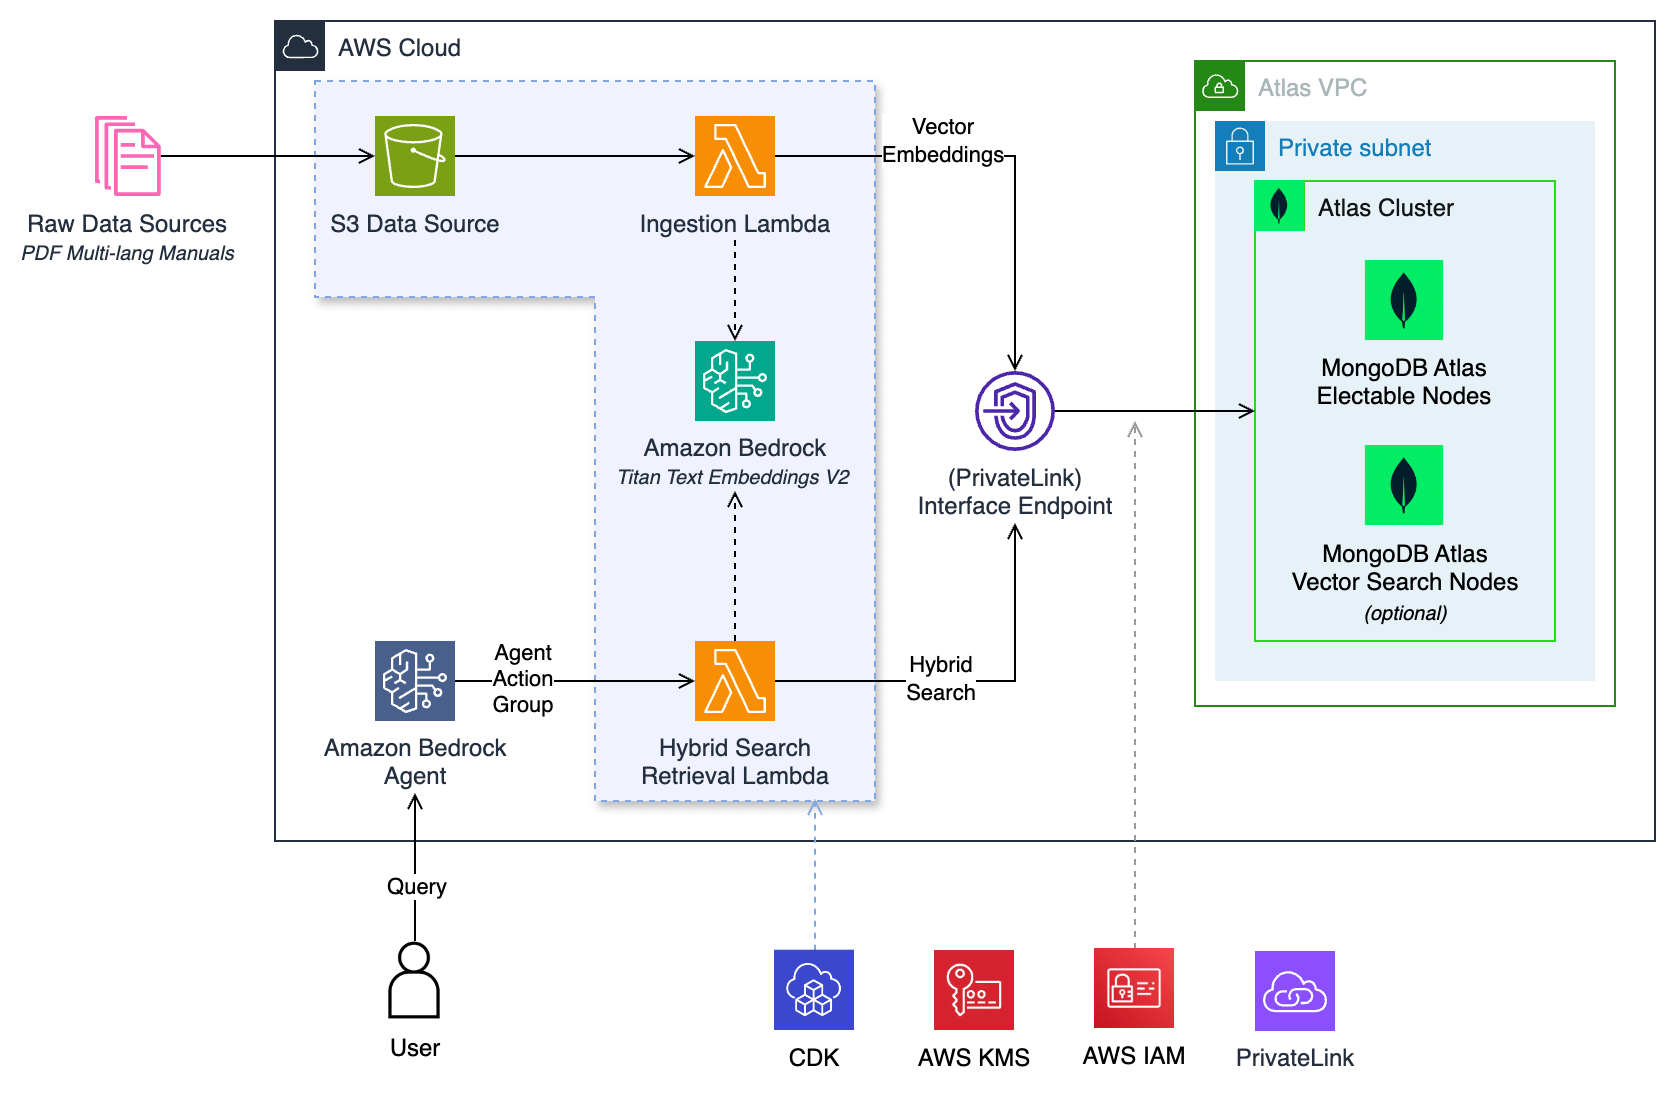
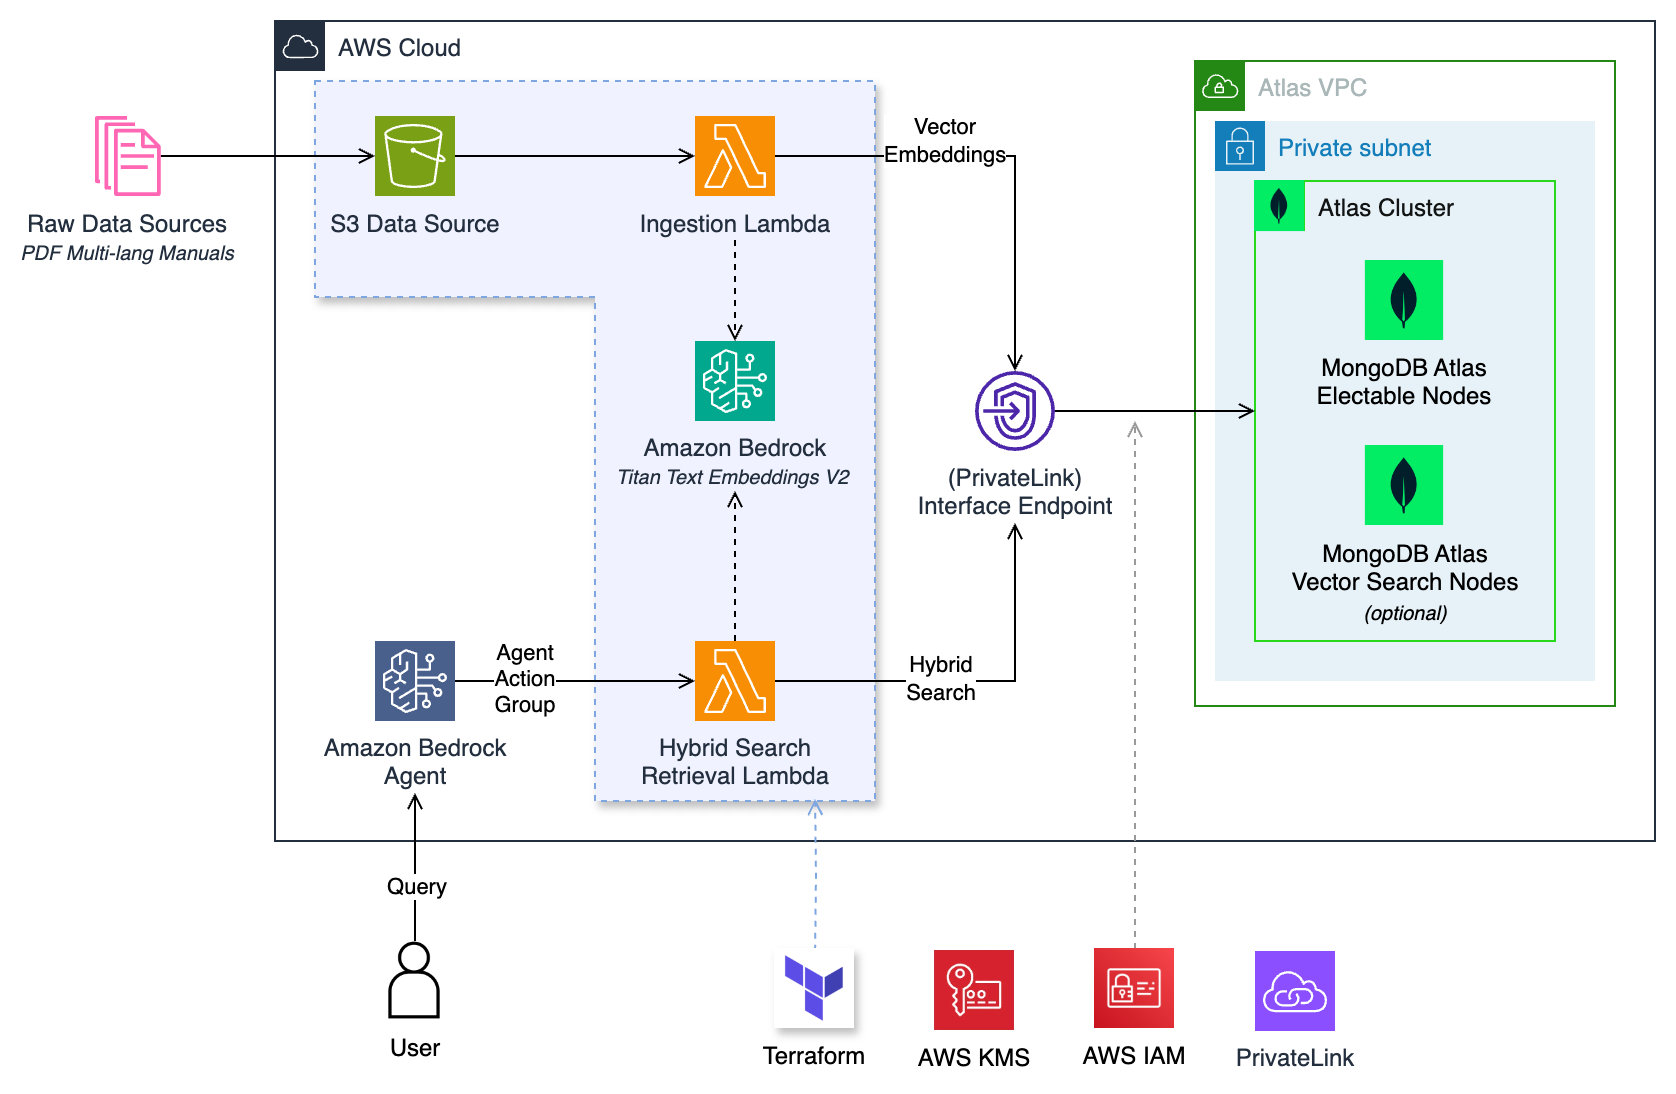
docs: improved readme with terraform info

Changed region(s): [[0.4344, 0.8391, 0.5274, 0.9945], [0.5274, 0.0932, 0.6205, 0.1554], [0.2792, 0.5905, 0.3413, 0.6527]]

diff --git a/README.md b/README.md
@@ -122,43 +122,26 @@ To integrate the Lambda functions with your existing MongoDB Atlas cluster, foll
     - Navigate to your cluster and click on "Connect".
     - Choose "Connect your application" and copy the connection string.
 
-2. **Configure AWS credentials**
-
-    Ensure your AWS and MongoDB Atlas credentials are set up.**
+2. **Set Environment Variables:**
+    - Set the `mongodb_conn_string` or `mongodb_conn_secret` variables:
+       - **Opiton 1**: Update the `mongodb_conn_string` environment variable for the `ingestLambda` and `retrievalLambda` configurations with your MongoDB connection string.
+       - **Option 2 (Recommended):** Update `mongodb_conn_secret` environment variable for the `ingestLambda` and `retrievalLambda` configurations with a secret that contains your MongoDB connection string.
 
     This can be done using environment variables:
-
-    ``` bash
-    export AWS_SECRET_ACCESS_KEY='<aws secret key>'
-    export AWS_ACCESS_KEY_ID='<aws key id>'
-    ```
 
     ```bash
     export TF_VAR_mongodb_conn_string="<atlas connection string>"
     export TF_VAR_mongodb_conn_secret="<atlas secret in AWS Secret manager>"
     ```
 
-    ... or the `~/.aws/credentials` file.
-
-    ```
-    $ cat ~/.aws/credentials
-    [default]
-    aws_access_key_id = your key id
-    aws_secret_access_key = your secret key
-
-    ```
     ... or follow as in the `variables.tf` file and create **terraform.tfvars** file with all the variable values, ex:
+
     ```
     access_key   = "<AWS_ACCESS_KEY_ID>"
     secret_key   = "<AWS_SECRET_ACCESS_KEY>"
     mongodb_conn_string   = "<MONGODB_CONN_STRING>"
     mongodb_conn_secret  = "<MONGODB_CONN_SECRET>"
     ```
-
-2. **Set Environment Variables:**
-    - Set the `mongodb_conn_string` or `mongodb_conn_secret` environment variable on `lib/mdb-bedrock-actions-stack.ts`:
-       - **Opiton 1**: Update the `mongodb_conn_string` environment variable for the `ingestLambda` and `retrievalLambda` configurations with your MongoDB connection string.
-       - **Option 2 (Recommended):** Update `mongodb_conn_secret` environment variable for the `ingestLambda` and `retrievalLambda` configurations with a secret that contains your MongoDB connection string.
 
 3. **Create Indexes:**
     - Ensure that your MongoDB collections have the necessary indexes for vector and full-text search. You can create these indexes using the MongoDB Atlas UI or via the MongoDB shell.
@@ -224,9 +207,9 @@ By following these steps, you can leverage Bedrock for the Foundation Models, Pr
 
 ## Conclusion
 
-This project provides an example of how to leverage a RAG architecture using AWS CDK, S3, MongoDB Atlas, and AWS Lambda. By integrating with Bedrock, you can enhance the architecture with advanced NLP capabilities and ensure robust and reliable responses.
+This project provides an example of how to leverage a RAG architecture using Terraform, S3, MongoDB Atlas, and AWS Lambda. By integrating with Bedrock, you can enhance the architecture with advanced NLP capabilities and ensure robust and reliable responses.
 
-For more information, refer to the [AWS CDK documentation](https://docs.aws.amazon.com/cdk/latest/guide/home.html) and [MongoDB Atlas documentation on Hybrid Search](https://www.mongodb.com/docs/atlas/atlas-vector-search/tutorials/reciprocal-rank-fusion/).
+For more information, refer to the [Terraform MongoDB Atlas Provider](https://github.com/mongodb/terraform-provider-mongodbatlas/tree/master) and [MongoDB Atlas documentation on Hybrid Search](https://www.mongodb.com/docs/atlas/atlas-vector-search/tutorials/reciprocal-rank-fusion/).
 
 <sup>
 This software distributed under the License is distributed on an "AS IS" BASIS,
